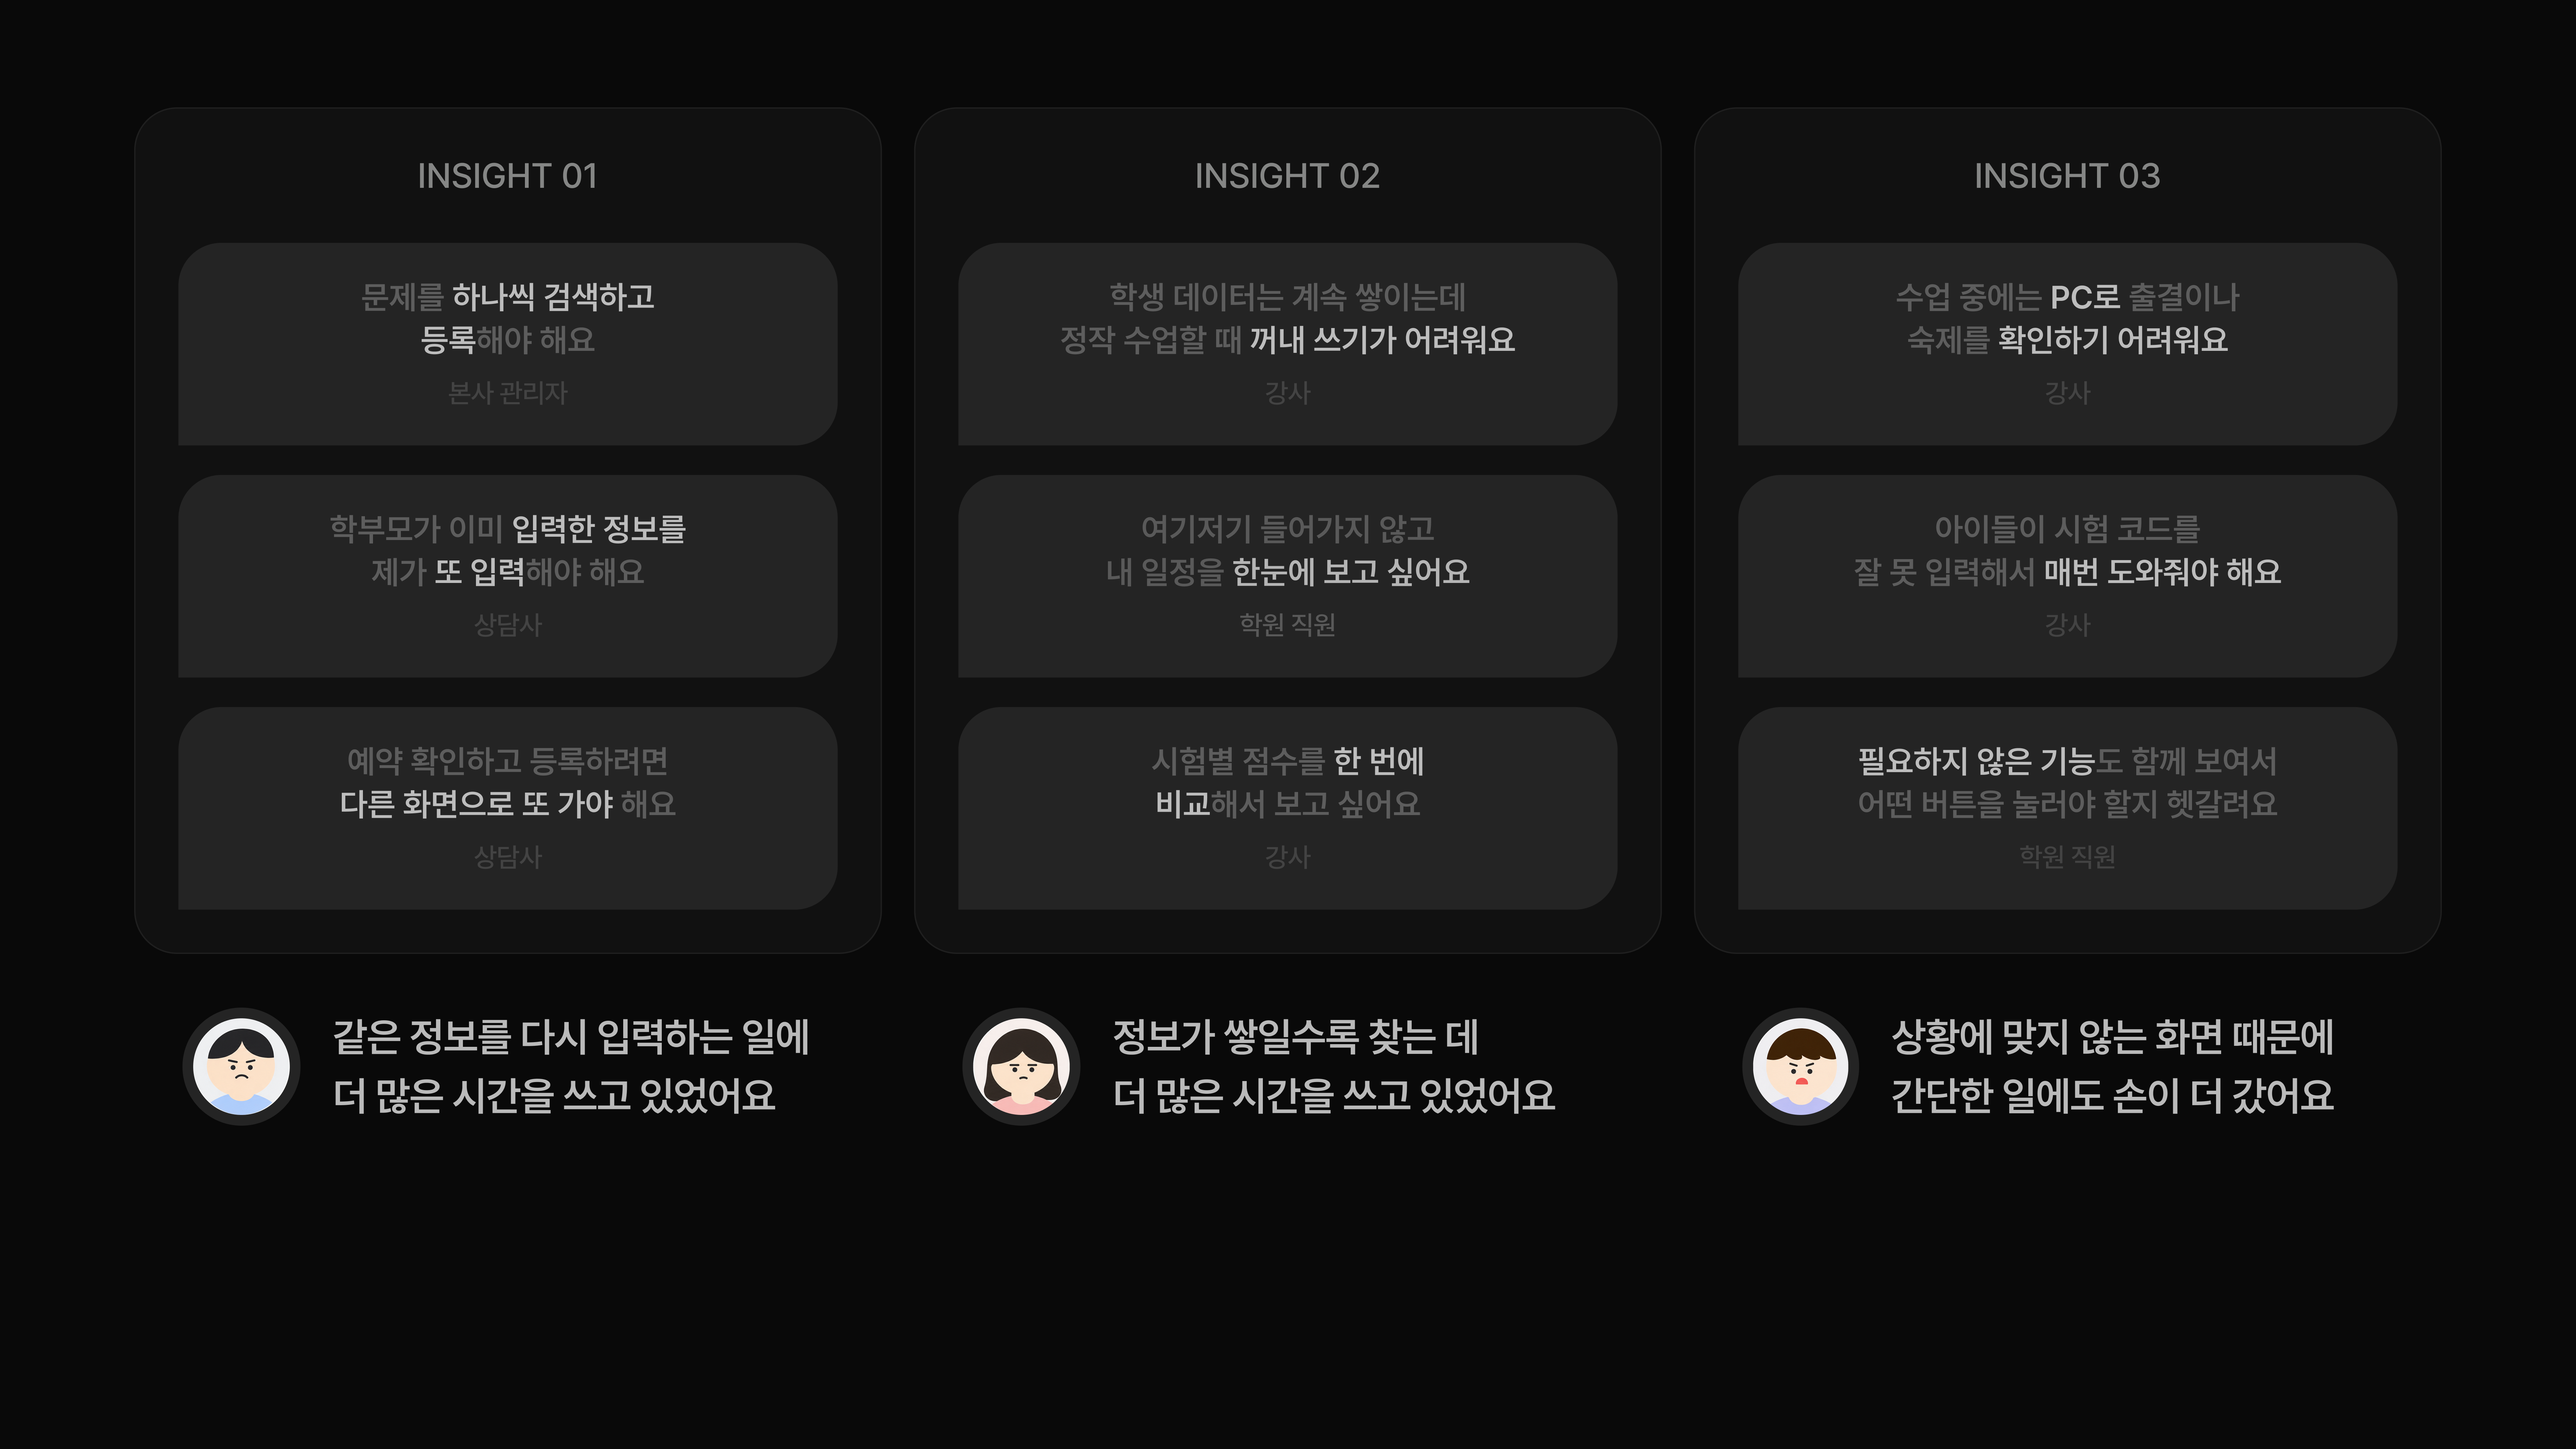
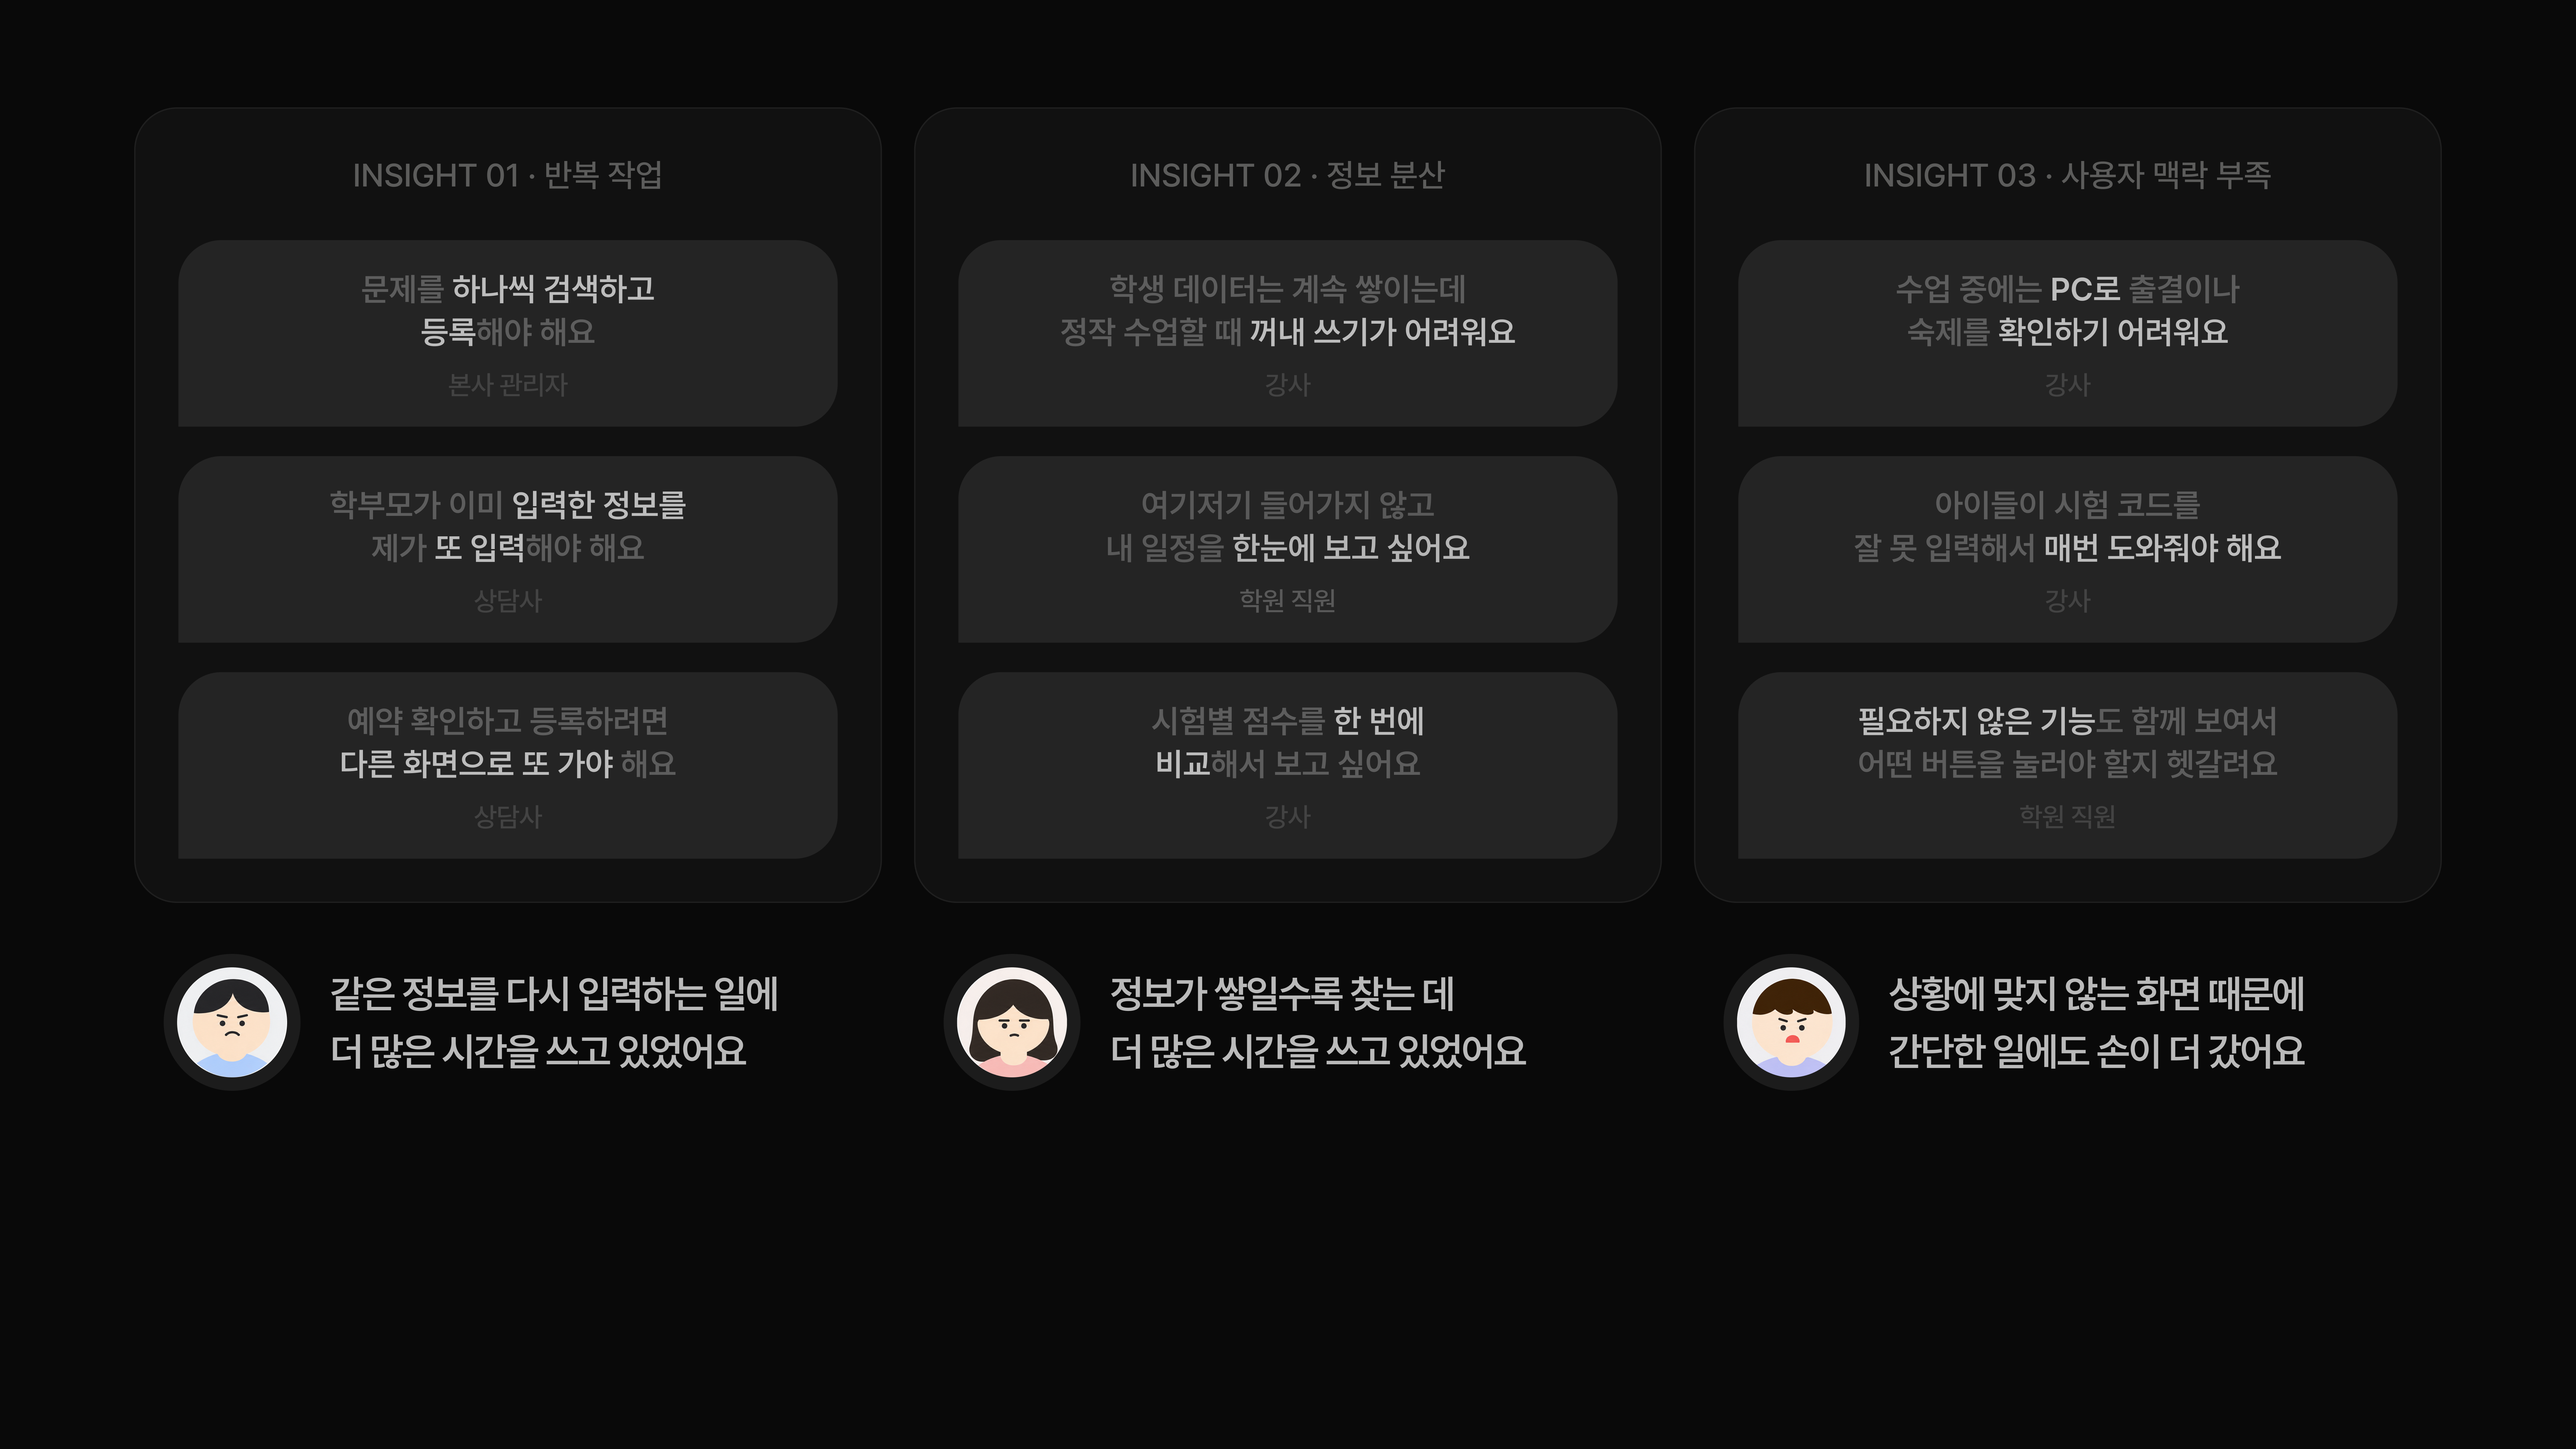
학원 ERP 05번 슬라이드 재내보내기본 반영
- 05.png 갱신 (7680x4320, 총 24장 그대로)
  INSIGHT 헤더에 소제목(반복 작업 / 정보 분산 / 사용자 맥락 부족)이
  붙고 하단 요약에 인물 아이콘이 추가됐다.
- ASSET_VERSION 20261126g -> 20261126h

diff --git a/assets/js/main.js b/assets/js/main.js
@@ -70,7 +70,7 @@
      (CSS/JS 의 ?v= 와 같은 역할)
      경로 자체에는 붙이지 않는다 — 확장자 추출이나 존재 확인이 쿼리에
      오염되면 안 되므로, <img src> 에 실을 때만 versioned() 로 감싼다. */
-  var ASSET_VERSION = '20261126g';
+  var ASSET_VERSION = '20261126h';
   function slidePath(key, n, ext) { return 'assets/slides/' + key + '/' + pad(n) + '.' + ext; }
   function versioned(src) { return src + '?v=' + ASSET_VERSION; }
 

diff --git a/index.html b/index.html
@@ -169,6 +169,6 @@
   </div>
 </div>
 
-<script src="assets/js/main.js?v=20261126g"></script>
+<script src="assets/js/main.js?v=20261126h"></script>
 </body>
 </html>
